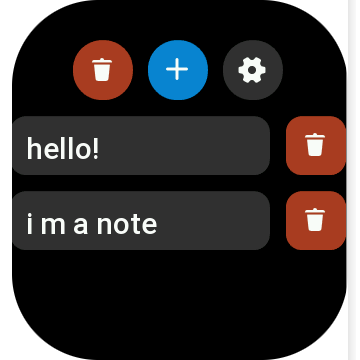
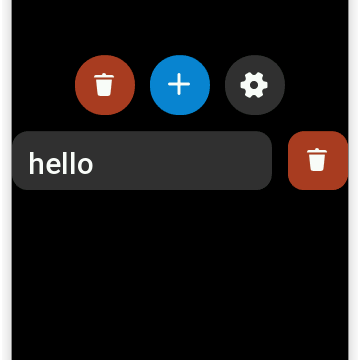
fix: minor fix for new keyboard and readme

diff --git a/utils/ui.js b/utils/ui.js
@@ -10,6 +10,7 @@ const margin = 15;
 const buttonWidthMini = 60;
 const buttonHeighMini = 60;
 const topBarY = 65;
+const fontSize = 28;
 
 /* parameters to create a menu list
 const menuItems = [
@@ -25,7 +26,7 @@ const menuItems = [
 export function createMenuList(menuItems) {
     let heightButton = (buttonHeight + margin);
     for (let index = 0; index < menuItems.length; index++) {
-        const textSize = menuItems[index].title ? px(36) : px(24);
+        const textSize = menuItems[index].title ? px(36) : px(fontSize);
         const itemWidth = menuItems[index].title ? width - (margin * 2) : menuItems[index].page != '' ? width - (margin + buttonWidth * 2) : width - (margin + buttonWidth);
         const medidas = hmUI.getTextLayout(menuItems[index].description, {
             text_size: px(textSize),
@@ -155,7 +156,7 @@ export function createCheckList(listItens, preSelectedItemIndex, callback) {
 
     for (let index = 0; index < listItens.length; index++) {
         const medidas = hmUI.getTextLayout(gettext(listItens[index]), {
-            text_size: px(24),
+            text_size: px(fontSize),
             text_width: px(width - (margin * 2 + buttonWidth)),
             wrapped: 1
         })
@@ -173,7 +174,7 @@ export function createCheckList(listItens, preSelectedItemIndex, callback) {
             w: px(width - (margin * 2 + buttonWidth)),
             h: px(itemHeight),
             color: 0xffffff,
-            text_size: px(24),
+            text_size: px(fontSize),
             align_h: hmUI.align.LEFT,
             align_v: hmUI.align.CENTER_V,
             text_style: hmUI.text_style.WRAP,

diff --git a/page/extendedKeyboard.js b/page/extendedKeyboard.js
@@ -145,7 +145,8 @@ initDialogSend = function () {
 }
 
 createEmojiKeyboard = function () {
-    const tela = 1 + indexKeyboard;
+    const tela = indexKeyboard+1;
+    console.log(tela);
     const emojiKeyboard = hmUI.createWidget(hmUI.widget.GROUP, {
         x: width * tela,
         y: height - groupHeight - margin,
@@ -354,13 +355,13 @@ createKeyboard = function () {
 
 Page({
     build() {
-        indexKeyboard = getApp()._options.globalData.keyboardTypeSelected;
+        indexKeyboard = Number(fs.readKeyBoardType());
         hmApp.unregisterGestureEvent();
         hmUI.setStatusBarVisible(false);
 
         lastClick = Date.now();
 
-        hmUI.setScrollView(true, (width), 5, false);
+        hmUI.setScrollView(true, (width), indexKeyboard+2, false);
 
         multiClickTimeout = fs.readKeyBoardMultiTimeout();
 

diff --git a/page/nonotes.js b/page/nonotes.js
@@ -1,4 +1,7 @@
 import { gettext } from 'i18n'
+
+import * as fs from './../utils/fs'
+
 const deviceInfo = hmSetting.getDeviceInfo()
 const { width, height, screenShape } = deviceInfo
 
@@ -66,7 +69,7 @@ showNoNotesMessage = function () {
 
 Page({
   build() {
-    let indexKeyboard = getApp()._options.globalData.keyboardTypeSelected;
+    let indexKeyboard = fs.readKeyBoardType();
     indexKeyboard = indexKeyboard > 1 ? 1 : indexKeyboard;
     keyboardSelected = getApp()._options.globalData.keyboardType[indexKeyboard];
 

diff --git a/page/index.js b/page/index.js
@@ -236,7 +236,7 @@ setGestureEvent = function () {
 
 Page({
   build() {
-    let indexKeyboard = getApp()._options.globalData.keyboardTypeSelected;
+    let indexKeyboard = fs.readKeyBoardType();
     indexKeyboard = indexKeyboard > 1 ? 1 : indexKeyboard;
     keyboardSelected = getApp()._options.globalData.keyboardType[indexKeyboard];
 

diff --git a/page/doubleclick.js b/page/doubleclick.js
@@ -28,7 +28,6 @@ Page({
             timeOutIndex,
             function (index) {
                 fs.writeKeyBoardMultiTimeout(timeoutOptions[index])
-                getApp()._options.globalData.multiClickTimeout = timeoutOptions[index]
             }
         )
     }

diff --git a/app.js b/app.js
@@ -3,8 +3,6 @@ import './shared/device-polyfill'
 App({
   globalData: {
     currentText: '',
-    multiClickTimeout: 1000,
-    keyboardTypeSelected: 0,
     keyboardType: ['t9Keyboard', 'extendedKeyboard', 'extendedKeyboard2'],
   },
   onCreate(options) {

diff --git a/page/keyboardtype.js b/page/keyboardtype.js
@@ -27,7 +27,6 @@ Page({
             keyboardTypeSelected,
             function (index) {
                 fs.writeKeyBoardType(index)
-                getApp()._options.globalData.keyboardTypeSelected = index
             }
         )
     }

diff --git a/README.md b/README.md
@@ -2,7 +2,7 @@
 
 A mini app for Zepp OS 1.0 for create quick annotations directly on watch with a T9 keyboard.
 
-## Screenshots
+## Quick start to a Quick note
 
 When you open the app and no note is created, you'll see this page
 
@@ -40,11 +40,39 @@ Double-click a note to edit it.
 
 <br>
 
+## Settings
+
 <img src="screenshots/en_US/settings.png" width="200" height="200">
 <img src="screenshots/en_US/timeout.png" width="200" height="200">
+<img src="screenshots/en_US/keyboardtype.png" width="200" height="200">
 <img src="screenshots/en_US/more.png" width="200" height="200">
+<img src="screenshots/en_US/more2.png" width="200" height="200">
+<img src="screenshots/en_US/more3.png" width="200" height="200">
 
-The settings page allow you to set the double-click speed, is the max time required to define if you're multi-clicking a button.
+<br>
+
+In the settings page you can set the double-click speed, change the keyboard type, read the Hints and About me :D
+1. The double-click is the max time required to define if you're multi-clicking a button.
+
+2. Now you have 3 types of keyboards:
+
+    <img src="screenshots/en_US/keyboard.png" width="100" height="100">
+
+    - **T9 Keyboard** : the first and classical one.
+
+    <br>
+
+    <img src="screenshots/en_US/keyboardfull.png" width="100" height="100">
+
+    - **Extended keyboard** : a QWERTY one to quick type any letter.
+
+    <br>
+
+    <img src="screenshots/en_US/keyboardsplit.png" width="100" height="100">
+    <img src="screenshots/en_US/keyboardsplit2.png" width="100" height="100">
+
+    - **Split keyboard**: a QWERTY one but in 2 screens for big letters, easy to see and type.
+
 
 ## The code
 
